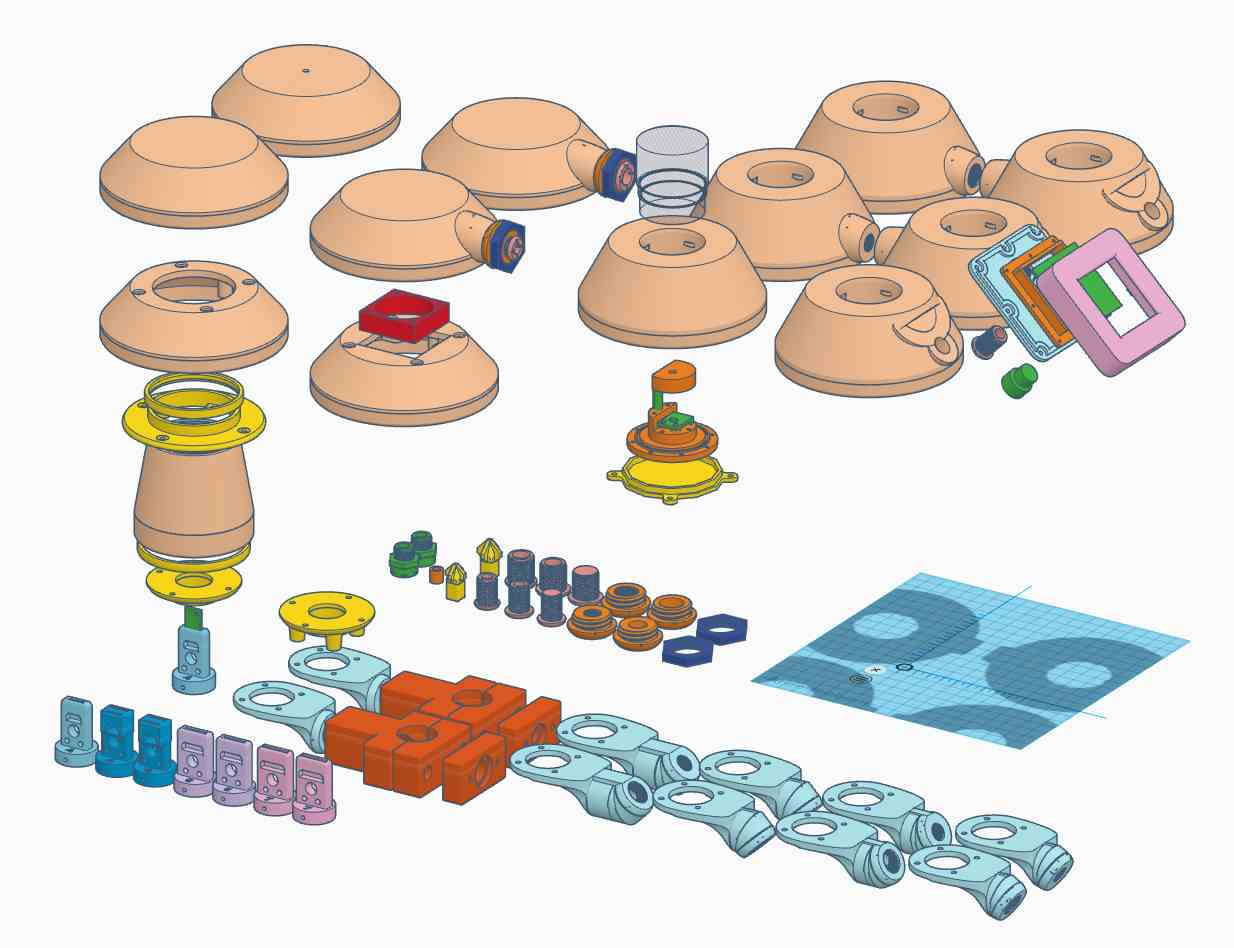
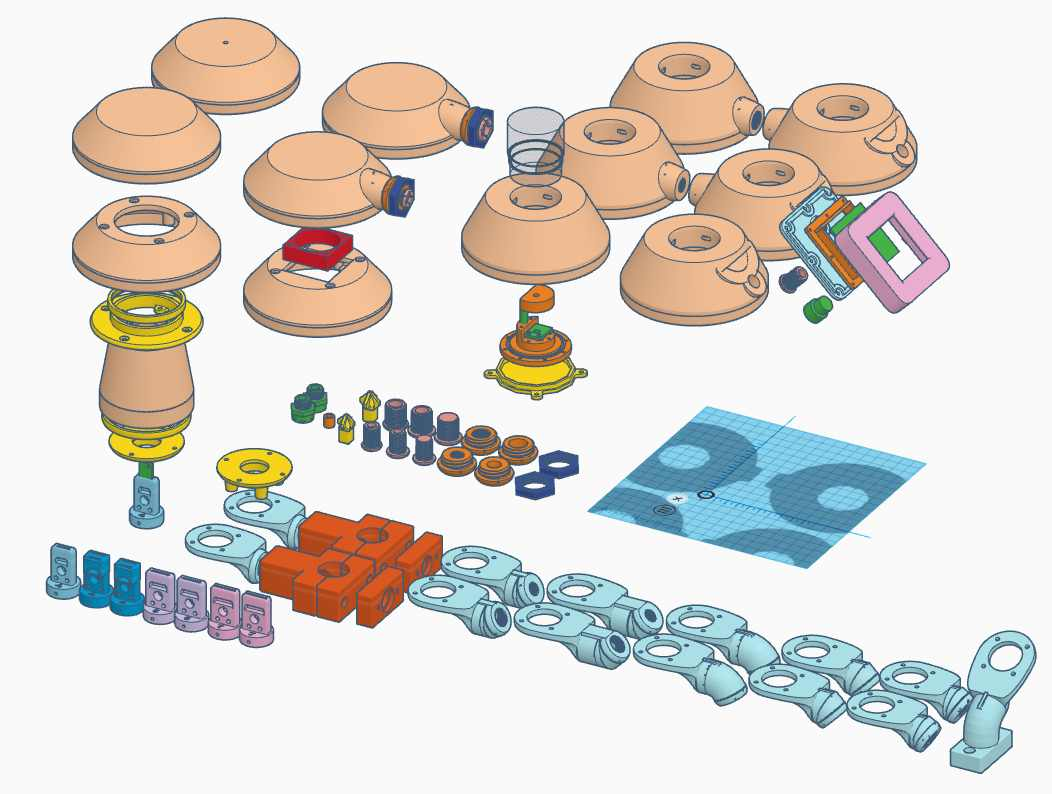
SHP - YAWS + Weatherman

diff --git a/SHP_Weatherman/README.md b/SHP_Weatherman/README.md
@@ -88,6 +88,8 @@ Da die Nachfrage für eine OpenSource Version des Weatherman-Codes von Dr. Stall
 <br><br>
 ![WW-mySHP - Weatherman](./img/SHP_WM_OBO-Case_03.jpg "OBO T60-Gehäuse mit YAWS 'STALL-Weatherman' Option")
 <br><br>
+![WW-mySHP - Weatherman](./img/SHP_WM_OBO-Case_05.jpg "OBO T60-Gehäuse mit YAWS 'STALL-Weatherman' Option")
+<br><br>
 - Kombinationsmöglichkeiten für den 'STALL-Weatherman' in Verbindung mit der 'YAWS-Toolbox'
 <br><br>
 ![WW-mySHP - Weatherman](./img/SHP_WM_OBO_Combi_01.jpg "Weatherman - OBO T60-Gehäuse - Kombinationen")

diff --git a/SHP_YAWS/README.md b/SHP_YAWS/README.md
@@ -95,6 +95,8 @@ Eine Auswahl der Konfigurationsmöglichkeiten der 'YAWS-Wetterkappe' wird in der
 - 'YAWS-Toolbox' - Option 'STALL-Weatherman'  - Befestigung unten - in Kombination mit OBO T60 Gehäuse
 <br><br>
 ![WW-mySHP - YAWS](./img/SHP_YAWS_Galerie_07.jpg "Galerie")
+<br><br>
+![WW-mySHP - YAWS](./img/SHP_YAWS_Galerie_08.jpg "Galerie")
 
 #### Historie
 - 2020-06-07 - Veröffentlichung an dieser Stelle
